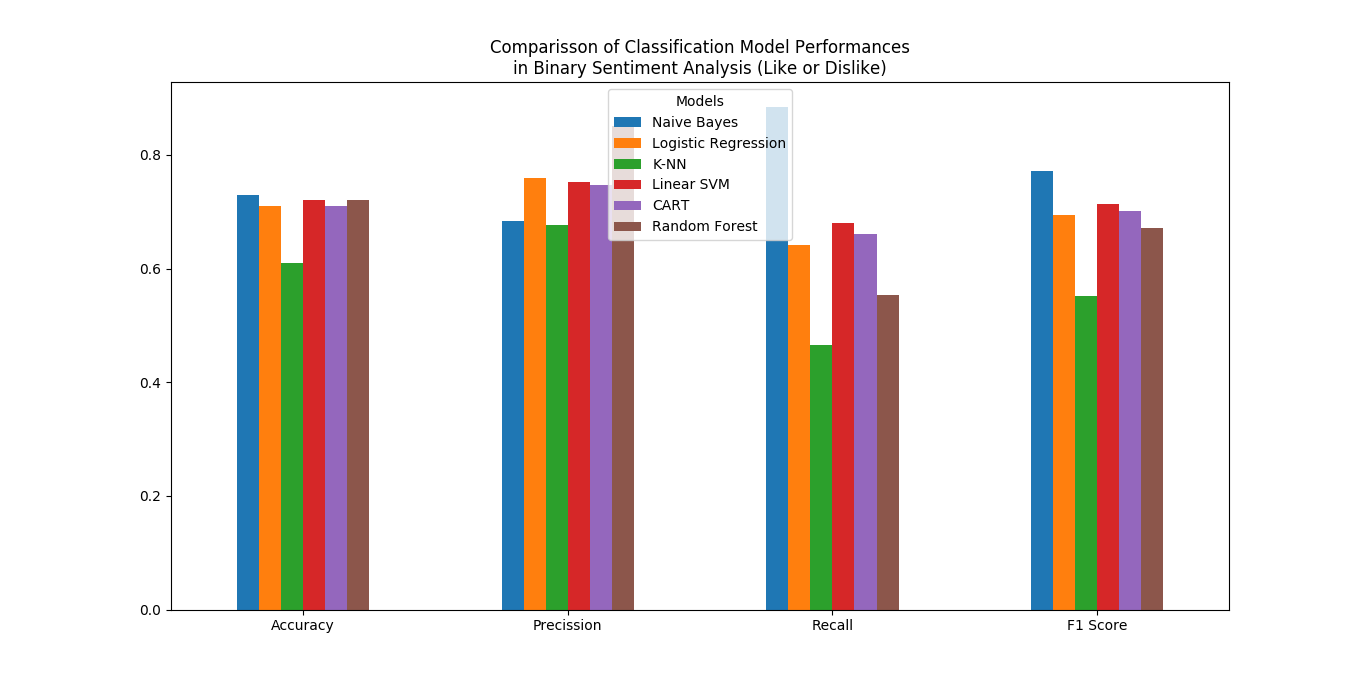
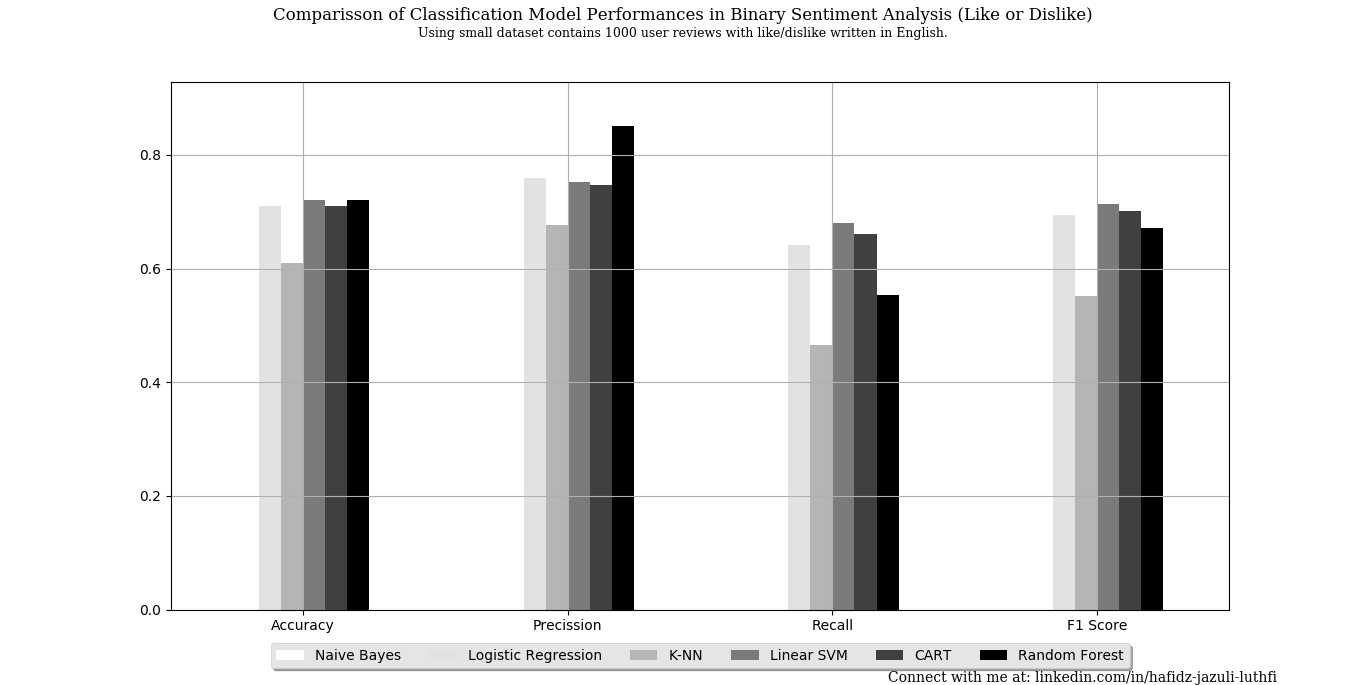
Done model comparison visualization in Python

diff --git a/udemy/machine learning A-Z/Part 7 - Natural Language Processing/Section 36 - Natural Language Processing/model_comparison_for_nlp.py b/udemy/machine learning A-Z/Part 7 - Natural Language Processing/Section 36 - Natural Language Processing/model_comparison_for_nlp.py
@@ -138,7 +138,21 @@ df = pd.DataFrame(data=modelMetrics,
 df.to_csv('confusion-matrix.csv', sep=',')
 
 # Plot the accuracy, precission, recall, and f1 score for each model
-df.plot(kind='bar',
-        title='Comparisson of Classification Model Performances\nin Binary Sentiment Analysis (Like or Dislike)',
-        rot=0)
+df.plot(kind='bar', colormap='Greys', grid=True, rot=0)
+plt.style.use('ggplot')
+plt.legend(loc='upper center', bbox_to_anchor=(
+    0.5, -0.05), shadow=True, ncol=numModels)
+f = plt.figure(1)
+extra_args = dict(family='serif', ha='center',
+                  va='top', transform=f.transFigure)
+f.text(.5, .99,
+       'Comparisson of Classification Model Performances in Binary Sentiment Analysis (Like or Dislike)',
+       size=12, **extra_args)
+f.text(.5, .96,
+       'Using small dataset contains 1000 user reviews with like/dislike written in English.',
+       size=9, **extra_args)  # Subtitle
+extra_args.update(ha='left', va='bottom', size=10, ma='right')
+f.text(0.65, 0.0,
+       'Connect with me at: linkedin.com/in/hafidz-jazuli-luthfi', **extra_args)  # Caption
+f.canvas.draw()
 plt.show()
